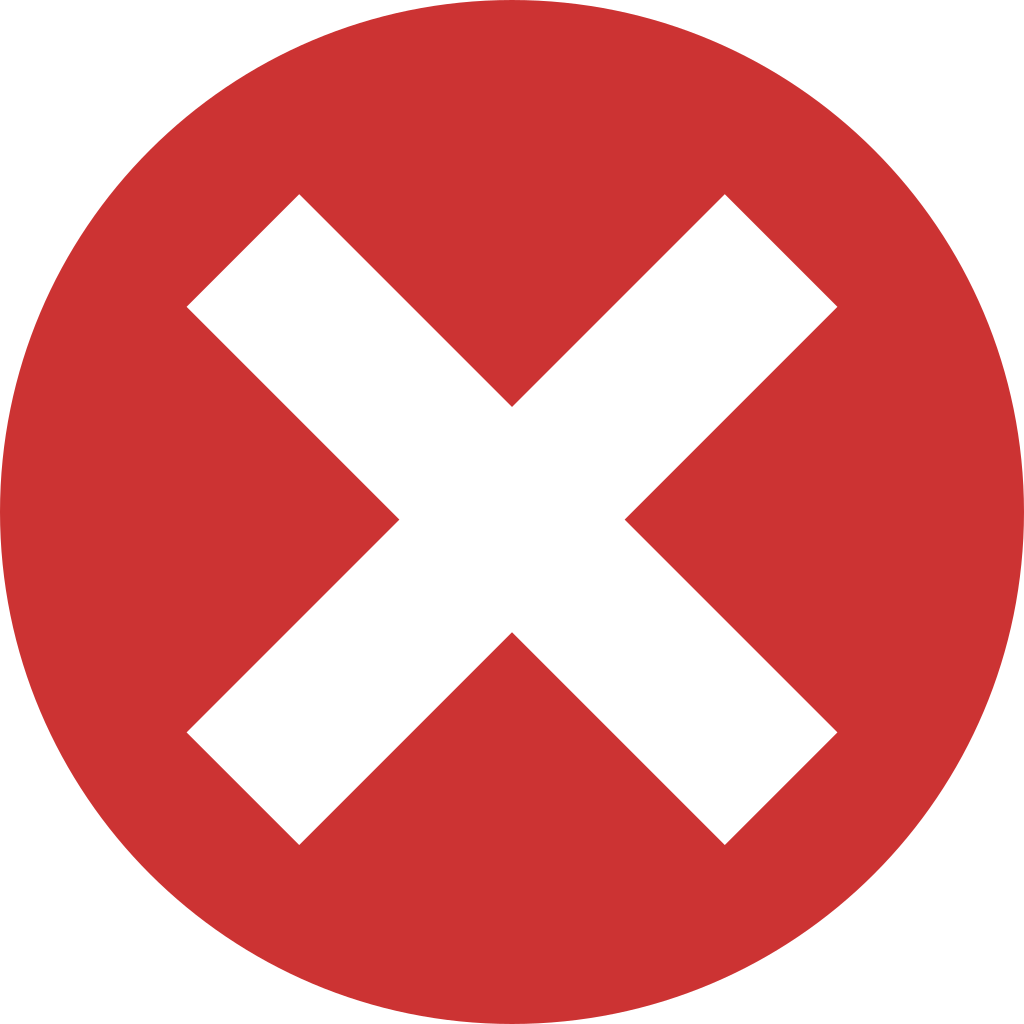
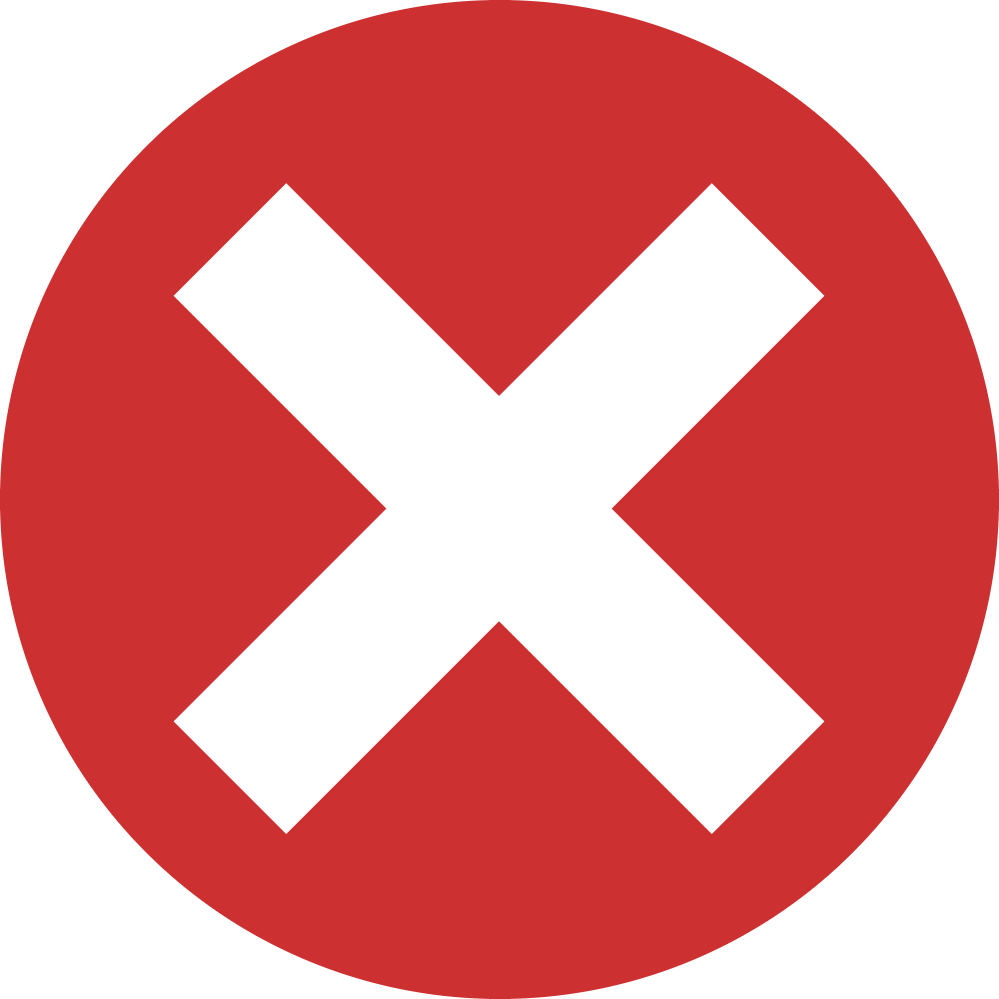
Modified popups images

diff --git a/style-index.css b/style-index.css
@@ -282,7 +282,7 @@ body {
 }
 
 .popup img {
-    width: 130px;
+    width: 100px;
     margin-top: -85px;
     border-radius: 50%;
     box-shadow: 0px 2px 8px rgba(0, 0, 0, 0.9);
